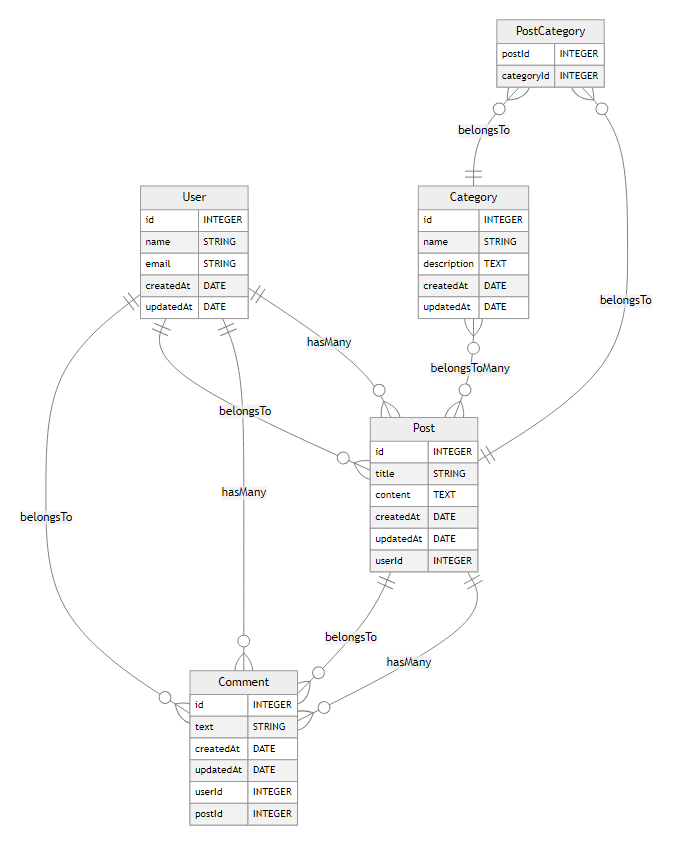
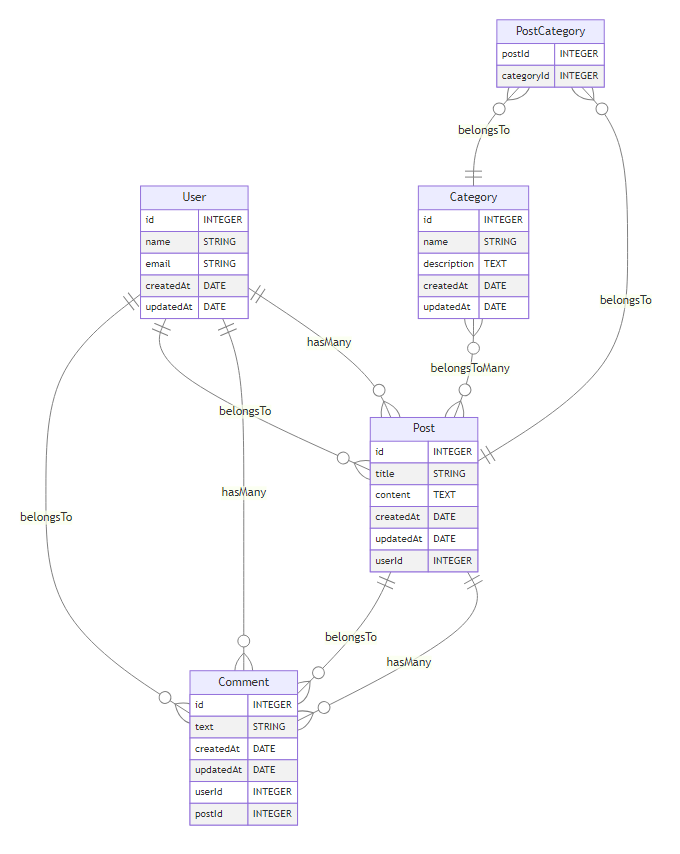
Update temp output dir

diff --git a/src/diagram/DiagramGenerator.js b/src/diagram/DiagramGenerator.js
@@ -68,15 +68,15 @@ class DiagramGenerator {
         const mermaidSyntax = this.generateMermaidSyntax(models);
 
         // Save the mermaid syntax to a temporary file
-        const tempFile = path.resolve("./output/temp.mmd");
-        const outputDir = path.dirname(tempFile);
-        if (!fs.existsSync(outputDir)) {
-            fs.mkdirSync(outputDir, { recursive: true });
+        const tempFile = path.resolve(path.dirname(this.outputFile), "./output/temp.mmd");
+        const tempDir = path.dirname(tempFile);
+        if (!fs.existsSync(tempDir)) {
+            fs.mkdirSync(tempDir, { recursive: true });
         }
         fs.writeFileSync(tempFile, mermaidSyntax, "utf8");
 
         const outputFile = this.outputFile.replace(/\.md$/, `.${format}`);
-        const command = `${mmdcPath} -i ${tempFile} -o ${outputFile} -t neutral`;
+        const command = `${mmdcPath} -i ${tempFile} -o ${outputFile} -t default`;
 
         exec(command, (error, stdout, stderr) => {
             if (error) {
@@ -91,7 +91,8 @@ class DiagramGenerator {
 
             // Clean up temporary file
             try {
-                fs.unlinkSync(tempFile);
+                //fs.unlinkSync(tempFile);
+                fs.rmSync(tempDir, {recursive: true});
             } catch (unlinkError) {
                 console.error(`Failed to delete temporary file: ${unlinkError.message}`);
             }

diff --git a/tests/DiagramGenerator.test.js b/tests/DiagramGenerator.test.js
@@ -57,7 +57,7 @@ describe("DiagramGenerator", () => {
         generator.generateDiagram(models, "svg");
 
         expect(fs.writeFileSync).toHaveBeenCalled();
-        expect(fs.unlinkSync).toHaveBeenCalled();
+        expect(fs.rmSync).toHaveBeenCalled();
     });
 
     it("should throw an error if models are empty", () => {
